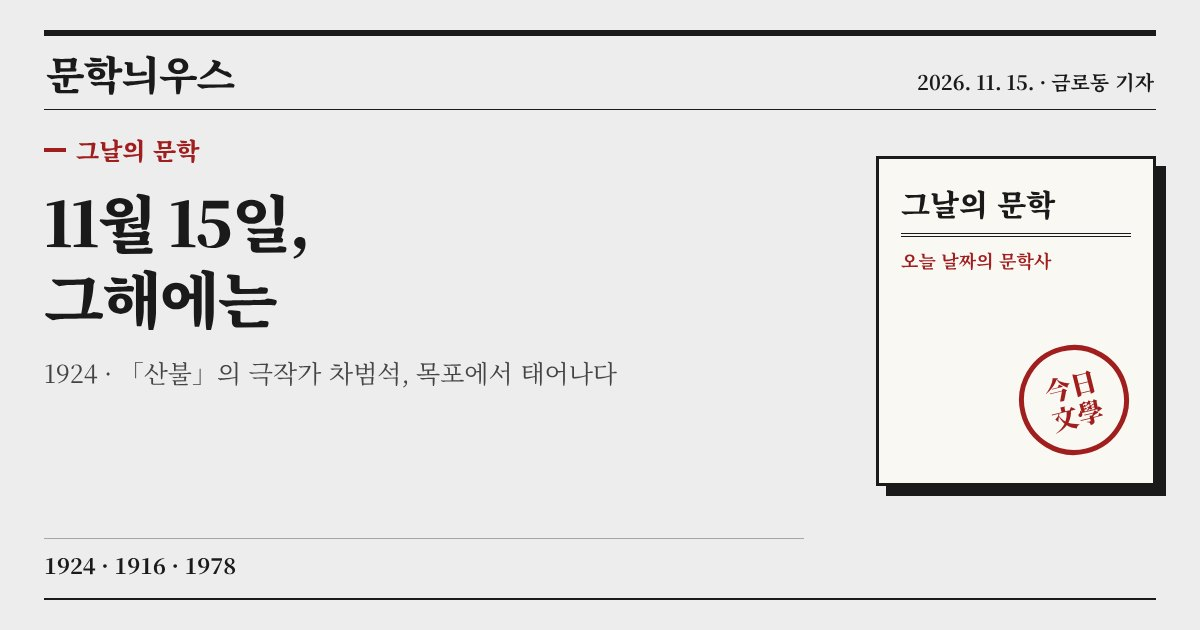
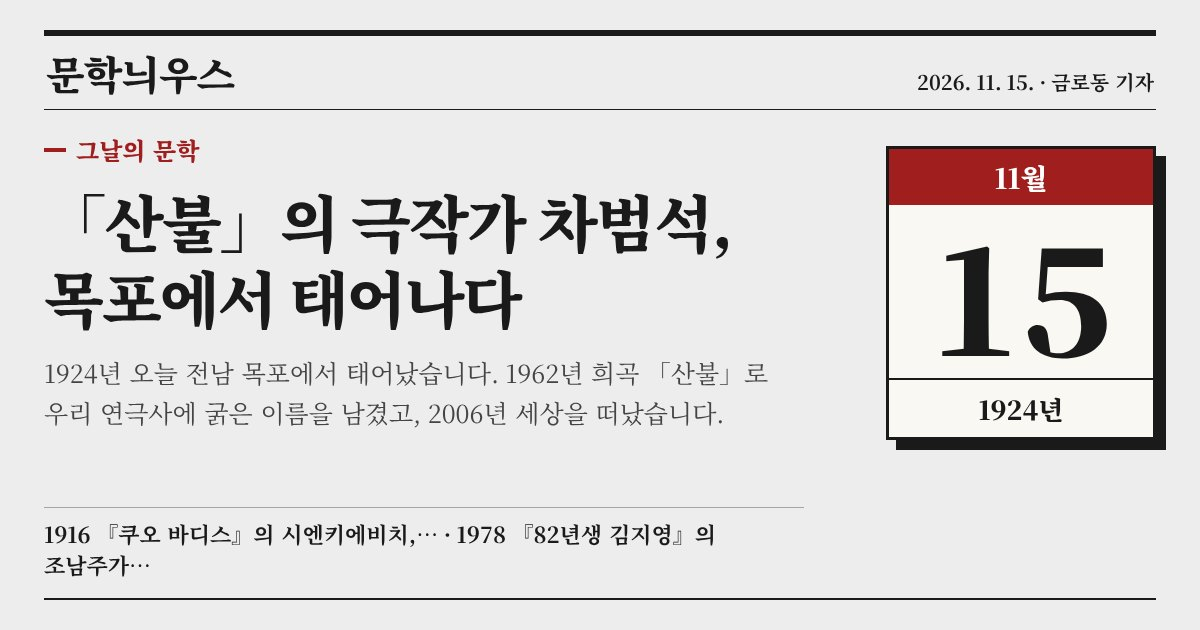
공유 카드: 코너마다 오늘 내용으로(1분 고전·현대=장면 삽화, 그날의 문학=첫 사건+달력장, 기분 처방전=오늘 들어온 약, 오늘의 한 수=기보 확대, 띠별 문장=열두 띠) + 오늘의 한 수·띠별 문장 공유 페이지 추가 — 발행인 11/15
Claude-Session: https://claude.ai/code/session_01XJFm6UEtw2WrxWGUKrJxX9

diff --git a/s/2026-11-15-modern.html b/s/2026-11-15-modern.html
@@ -1,23 +1,23 @@
 <!doctype html>
 <html lang="ko"><head><meta charset="utf-8">
 <meta name="viewport" content="width=device-width,initial-scale=1">
-<meta name="share-sig" content="12e8c91e1e">
+<meta name="share-sig" content="36ad12d770">
 <meta name="robots" content="noindex,follow">
-<title>1분 현대문학 · 이문열 「우리들의 일그러진 영웅」 · 문학늬우스</title>
-<meta name="description" content="서울에서 시골 학교로 전학 간 소년이, 반을 쥐락펴락하는 급장에 맞서다 끝내 그의 왕국에 들어가는 이야기. 어른이 된 &#x27;나&#x27; 한병태가 오래전 초등학교 시절을 돌아보며 이야기를 시작합니다. 서울의…">
+<title>1분 현대문학 · 이문열 「우리들의 일그러진 영웅」 — 서울에서 시골 학교로 전학 간 소년이, 반을 쥐락펴락하는 급장에 맞서다 끝내 그의 왕국에… · 문학늬우스</title>
+<meta name="description" content="어른이 된 &#x27;나&#x27; 한병태가 오래전 초등학교 시절을 돌아보며 이야기를 시작합니다. 서울의 이름난 학교에 다니던 병태는 5학년 때 집안 사정으로 작은 읍의 시골 학교로 전학을 갑니다. 서울에서 배운…">
 <meta property="og:type" content="article">
 <meta property="og:site_name" content="문학늬우스">
-<meta property="og:title" content="1분 현대문학 · 이문열 「우리들의 일그러진 영웅」">
-<meta property="og:description" content="서울에서 시골 학교로 전학 간 소년이, 반을 쥐락펴락하는 급장에 맞서다 끝내 그의 왕국에 들어가는 이야기. 어른이 된 &#x27;나&#x27; 한병태가 오래전 초등학교 시절을 돌아보며 이야기를 시작합니다. 서울의…">
+<meta property="og:title" content="1분 현대문학 · 이문열 「우리들의 일그러진 영웅」 — 서울에서 시골 학교로 전학 간 소년이, 반을 쥐락펴락하는 급장에 맞서다 끝내 그의 왕국에…">
+<meta property="og:description" content="어른이 된 &#x27;나&#x27; 한병태가 오래전 초등학교 시절을 돌아보며 이야기를 시작합니다. 서울의 이름난 학교에 다니던 병태는 5학년 때 집안 사정으로 작은 읍의 시골 학교로 전학을 갑니다. 서울에서 배운…">
 <meta property="og:url" content="https://mnews.jintar.co.kr/s/2026-11-15-modern.html">
 <meta property="og:image" content="https://mnews.jintar.co.kr/s/2026-11-15-modern.jpg">
 <meta property="og:image:width" content="1200"><meta property="og:image:height" content="630">
 <meta property="og:locale" content="ko_KR">
 <meta name="twitter:card" content="summary_large_image">
-<meta name="twitter:title" content="1분 현대문학 · 이문열 「우리들의 일그러진 영웅」">
-<meta name="twitter:description" content="서울에서 시골 학교로 전학 간 소년이, 반을 쥐락펴락하는 급장에 맞서다 끝내 그의 왕국에 들어가는 이야기. 어른이 된 &#x27;나&#x27; 한병태가 오래전 초등학교 시절을 돌아보며 이야기를 시작합니다. 서울의…">
+<meta name="twitter:title" content="1분 현대문학 · 이문열 「우리들의 일그러진 영웅」 — 서울에서 시골 학교로 전학 간 소년이, 반을 쥐락펴락하는 급장에 맞서다 끝내 그의 왕국에…">
+<meta name="twitter:description" content="어른이 된 &#x27;나&#x27; 한병태가 오래전 초등학교 시절을 돌아보며 이야기를 시작합니다. 서울의 이름난 학교에 다니던 병태는 5학년 때 집안 사정으로 작은 읍의 시골 학교로 전학을 갑니다. 서울에서 배운…">
 <meta name="twitter:image" content="https://mnews.jintar.co.kr/s/2026-11-15-modern.jpg">
 <link rel="icon" href="../favicon.svg" type="image/svg+xml">
 <script>location.replace("../?d=2026-11-15#modern")</script>
 <style>body{font-family:"Noto Serif KR",serif;background:#EDEDED;color:#1A1A1A;margin:0;display:grid;place-items:center;min-height:100vh;text-align:center;padding:24px}a{color:inherit}</style>
-</head><body><p><b>문학늬우스</b><br>1분 현대문학 · 이문열 「우리들의 일그러진 영웅」<br><br><a href="../?d=2026-11-15#modern">지면에서 보기 →</a></p></body></html>
+</head><body><p><b>문학늬우스</b><br>1분 현대문학 · 이문열 「우리들의 일그러진 영웅」 — 서울에서 시골 학교로 전학 간 소년이, 반을 쥐락펴락하는 급장에 맞서다 끝내 그의 왕국에…<br><br><a href="../?d=2026-11-15#modern">지면에서 보기 →</a></p></body></html>

diff --git a/s/2026-11-15-classic.html b/s/2026-11-15-classic.html
@@ -1,23 +1,23 @@
 <!doctype html>
 <html lang="ko"><head><meta charset="utf-8">
 <meta name="viewport" content="width=device-width,initial-scale=1">
-<meta name="share-sig" content="a6a9deb52d">
+<meta name="share-sig" content="52ed32dd60">
 <meta name="robots" content="noindex,follow">
-<title>1분 고전 · 오 헨리 「마지막 잎새」 · 문학늬우스</title>
-<meta name="description" content="폐렴에 걸린 젊은 화가가 담쟁이 잎이 다 지면 자기도 죽는다고 믿는다. 그 마지막 한 잎을 둘러싼 이야기. 뉴욕 워싱턴 스퀘어 서쪽, 길이 제멋대로 구부러진 동네 그리니치빌리지. 가난한 화가들이…">
+<title>1분 고전 · 오 헨리 「마지막 잎새」 — 폐렴에 걸린 젊은 화가가 담쟁이 잎이 다 지면 자기도 죽는다고 믿는다. 그 마지막 한 잎… · 문학늬우스</title>
+<meta name="description" content="뉴욕 워싱턴 스퀘어 서쪽, 길이 제멋대로 구부러진 동네 그리니치빌리지. 가난한 화가들이 모여드는 이곳의 나지막한 3층 벽돌집 꼭대기에 수와 존시가 작업실을 차렸습니다. 한 사람은 메인에서, 한 사…">
 <meta property="og:type" content="article">
 <meta property="og:site_name" content="문학늬우스">
-<meta property="og:title" content="1분 고전 · 오 헨리 「마지막 잎새」">
-<meta property="og:description" content="폐렴에 걸린 젊은 화가가 담쟁이 잎이 다 지면 자기도 죽는다고 믿는다. 그 마지막 한 잎을 둘러싼 이야기. 뉴욕 워싱턴 스퀘어 서쪽, 길이 제멋대로 구부러진 동네 그리니치빌리지. 가난한 화가들이…">
+<meta property="og:title" content="1분 고전 · 오 헨리 「마지막 잎새」 — 폐렴에 걸린 젊은 화가가 담쟁이 잎이 다 지면 자기도 죽는다고 믿는다. 그 마지막 한 잎…">
+<meta property="og:description" content="뉴욕 워싱턴 스퀘어 서쪽, 길이 제멋대로 구부러진 동네 그리니치빌리지. 가난한 화가들이 모여드는 이곳의 나지막한 3층 벽돌집 꼭대기에 수와 존시가 작업실을 차렸습니다. 한 사람은 메인에서, 한 사…">
 <meta property="og:url" content="https://mnews.jintar.co.kr/s/2026-11-15-classic.html">
 <meta property="og:image" content="https://mnews.jintar.co.kr/s/2026-11-15-classic.jpg">
 <meta property="og:image:width" content="1200"><meta property="og:image:height" content="630">
 <meta property="og:locale" content="ko_KR">
 <meta name="twitter:card" content="summary_large_image">
-<meta name="twitter:title" content="1분 고전 · 오 헨리 「마지막 잎새」">
-<meta name="twitter:description" content="폐렴에 걸린 젊은 화가가 담쟁이 잎이 다 지면 자기도 죽는다고 믿는다. 그 마지막 한 잎을 둘러싼 이야기. 뉴욕 워싱턴 스퀘어 서쪽, 길이 제멋대로 구부러진 동네 그리니치빌리지. 가난한 화가들이…">
+<meta name="twitter:title" content="1분 고전 · 오 헨리 「마지막 잎새」 — 폐렴에 걸린 젊은 화가가 담쟁이 잎이 다 지면 자기도 죽는다고 믿는다. 그 마지막 한 잎…">
+<meta name="twitter:description" content="뉴욕 워싱턴 스퀘어 서쪽, 길이 제멋대로 구부러진 동네 그리니치빌리지. 가난한 화가들이 모여드는 이곳의 나지막한 3층 벽돌집 꼭대기에 수와 존시가 작업실을 차렸습니다. 한 사람은 메인에서, 한 사…">
 <meta name="twitter:image" content="https://mnews.jintar.co.kr/s/2026-11-15-classic.jpg">
 <link rel="icon" href="../favicon.svg" type="image/svg+xml">
 <script>location.replace("../?d=2026-11-15#classic")</script>
 <style>body{font-family:"Noto Serif KR",serif;background:#EDEDED;color:#1A1A1A;margin:0;display:grid;place-items:center;min-height:100vh;text-align:center;padding:24px}a{color:inherit}</style>
-</head><body><p><b>문학늬우스</b><br>1분 고전 · 오 헨리 「마지막 잎새」<br><br><a href="../?d=2026-11-15#classic">지면에서 보기 →</a></p></body></html>
+</head><body><p><b>문학늬우스</b><br>1분 고전 · 오 헨리 「마지막 잎새」 — 폐렴에 걸린 젊은 화가가 담쟁이 잎이 다 지면 자기도 죽는다고 믿는다. 그 마지막 한 잎…<br><br><a href="../?d=2026-11-15#classic">지면에서 보기 →</a></p></body></html>

diff --git a/s/2026-11-15-rx.html b/s/2026-11-15-rx.html
@@ -1,23 +1,23 @@
 <!doctype html>
 <html lang="ko"><head><meta charset="utf-8">
 <meta name="viewport" content="width=device-width,initial-scale=1">
-<meta name="share-sig" content="a2ce733bd1">
+<meta name="share-sig" content="d5b6955ad6">
 <meta name="robots" content="noindex,follow">
-<title>기분 처방전 · 오늘 기분에 맞는 문장 한 알 · 문학늬우스</title>
-<meta name="description" content="지쳤어요·울적해요·불안해요·화나요·설레요·멍해요 — 기분을 고르면 금로동 약사가 문장 한 알을 지어 드립니다.">
+<title>기분 처방전 · 오늘 들어온 약 “엄마야 누나야 강변 살자 / 뜰에는 반짝이는 금모래빛” — 김소월 「엄마야 누나야」 · 문학늬우스</title>
+<meta name="description" content="모니터 불빛 대신 금모래빛을 떠올리며, 눈 감고 두 줄을 천천히 소리 내어 한 번. 강변 이사는 처방에 포함되지 않습니다. · 오늘 들어온 약 6알: 윤동주 「서시」, 김상용 「남으로 창을 내겠소…">
 <meta property="og:type" content="article">
 <meta property="og:site_name" content="문학늬우스">
-<meta property="og:title" content="기분 처방전 · 오늘 기분에 맞는 문장 한 알">
-<meta property="og:description" content="지쳤어요·울적해요·불안해요·화나요·설레요·멍해요 — 기분을 고르면 금로동 약사가 문장 한 알을 지어 드립니다.">
+<meta property="og:title" content="기분 처방전 · 오늘 들어온 약 “엄마야 누나야 강변 살자 / 뜰에는 반짝이는 금모래빛” — 김소월 「엄마야 누나야」">
+<meta property="og:description" content="모니터 불빛 대신 금모래빛을 떠올리며, 눈 감고 두 줄을 천천히 소리 내어 한 번. 강변 이사는 처방에 포함되지 않습니다. · 오늘 들어온 약 6알: 윤동주 「서시」, 김상용 「남으로 창을 내겠소…">
 <meta property="og:url" content="https://mnews.jintar.co.kr/s/2026-11-15-rx.html">
 <meta property="og:image" content="https://mnews.jintar.co.kr/s/2026-11-15-rx.jpg">
 <meta property="og:image:width" content="1200"><meta property="og:image:height" content="630">
 <meta property="og:locale" content="ko_KR">
 <meta name="twitter:card" content="summary_large_image">
-<meta name="twitter:title" content="기분 처방전 · 오늘 기분에 맞는 문장 한 알">
-<meta name="twitter:description" content="지쳤어요·울적해요·불안해요·화나요·설레요·멍해요 — 기분을 고르면 금로동 약사가 문장 한 알을 지어 드립니다.">
+<meta name="twitter:title" content="기분 처방전 · 오늘 들어온 약 “엄마야 누나야 강변 살자 / 뜰에는 반짝이는 금모래빛” — 김소월 「엄마야 누나야」">
+<meta name="twitter:description" content="모니터 불빛 대신 금모래빛을 떠올리며, 눈 감고 두 줄을 천천히 소리 내어 한 번. 강변 이사는 처방에 포함되지 않습니다. · 오늘 들어온 약 6알: 윤동주 「서시」, 김상용 「남으로 창을 내겠소…">
 <meta name="twitter:image" content="https://mnews.jintar.co.kr/s/2026-11-15-rx.jpg">
 <link rel="icon" href="../favicon.svg" type="image/svg+xml">
 <script>location.replace("../?d=2026-11-15#rx")</script>
 <style>body{font-family:"Noto Serif KR",serif;background:#EDEDED;color:#1A1A1A;margin:0;display:grid;place-items:center;min-height:100vh;text-align:center;padding:24px}a{color:inherit}</style>
-</head><body><p><b>문학늬우스</b><br>기분 처방전 · 오늘 기분에 맞는 문장 한 알<br><br><a href="../?d=2026-11-15#rx">지면에서 보기 →</a></p></body></html>
+</head><body><p><b>문학늬우스</b><br>기분 처방전 · 오늘 들어온 약 “엄마야 누나야 강변 살자 / 뜰에는 반짝이는 금모래빛” — 김소월 「엄마야 누나야」<br><br><a href="../?d=2026-11-15#rx">지면에서 보기 →</a></p></body></html>

diff --git a/s/2026-11-15-go.html b/s/2026-11-15-go.html
@@ -1,0 +1,23 @@
+<!doctype html>
+<html lang="ko"><head><meta charset="utf-8">
+<meta name="viewport" content="width=device-width,initial-scale=1">
+<meta name="share-sig" content="c80b83a2fe">
+<meta name="robots" content="noindex,follow">
+<title>오늘의 한 수 · 「신의 한 수」 백78 — 이세돌 9단, 구글 딥마인드 챌린지 매치 제4국 · 문학늬우스</title>
+<meta name="description" content="세 판을 내리 진 뒤의 넷째 판. 이세돌 9단(백)이 중앙의 흑돌 사이로 돌 하나를 끼워 넣었다. 흑이 두텁게 감싼 중앙에서 백은 살 길이 좁아 보였다. 백78은 흑돌과 흑돌 사이, 비좁은 틈을…">
+<meta property="og:type" content="article">
+<meta property="og:site_name" content="문학늬우스">
+<meta property="og:title" content="오늘의 한 수 · 「신의 한 수」 백78 — 이세돌 9단, 구글 딥마인드 챌린지 매치 제4국">
+<meta property="og:description" content="세 판을 내리 진 뒤의 넷째 판. 이세돌 9단(백)이 중앙의 흑돌 사이로 돌 하나를 끼워 넣었다. 흑이 두텁게 감싼 중앙에서 백은 살 길이 좁아 보였다. 백78은 흑돌과 흑돌 사이, 비좁은 틈을…">
+<meta property="og:url" content="https://mnews.jintar.co.kr/s/2026-11-15-go.html">
+<meta property="og:image" content="https://mnews.jintar.co.kr/s/2026-11-15-go.jpg">
+<meta property="og:image:width" content="1200"><meta property="og:image:height" content="630">
+<meta property="og:locale" content="ko_KR">
+<meta name="twitter:card" content="summary_large_image">
+<meta name="twitter:title" content="오늘의 한 수 · 「신의 한 수」 백78 — 이세돌 9단, 구글 딥마인드 챌린지 매치 제4국">
+<meta name="twitter:description" content="세 판을 내리 진 뒤의 넷째 판. 이세돌 9단(백)이 중앙의 흑돌 사이로 돌 하나를 끼워 넣었다. 흑이 두텁게 감싼 중앙에서 백은 살 길이 좁아 보였다. 백78은 흑돌과 흑돌 사이, 비좁은 틈을…">
+<meta name="twitter:image" content="https://mnews.jintar.co.kr/s/2026-11-15-go.jpg">
+<link rel="icon" href="../favicon.svg" type="image/svg+xml">
+<script>location.replace("../?d=2026-11-15#go")</script>
+<style>body{font-family:"Noto Serif KR",serif;background:#EDEDED;color:#1A1A1A;margin:0;display:grid;place-items:center;min-height:100vh;text-align:center;padding:24px}a{color:inherit}</style>
+</head><body><p><b>문학늬우스</b><br>오늘의 한 수 · 「신의 한 수」 백78 — 이세돌 9단, 구글 딥마인드 챌린지 매치 제4국<br><br><a href="../?d=2026-11-15#go">지면에서 보기 →</a></p></body></html>

diff --git a/s/2026-11-15-zodiac.html b/s/2026-11-15-zodiac.html
@@ -1,0 +1,23 @@
+<!doctype html>
+<html lang="ko"><head><meta charset="utf-8">
+<meta name="viewport" content="width=device-width,initial-scale=1">
+<meta name="share-sig" content="e3b471ba6c">
+<meta name="robots" content="noindex,follow">
+<title>띠별 오늘의 문장 · 쥐띠 「새로운 길」 외 11편 — 운세 대신 문장 한 줄 · 문학늬우스</title>
+<meta name="description" content="쥐띠 “어제도 가고 오늘도 갈 나의 길 새로운…” / 소띠 “사람은 파멸할 수는 있어도 패배하지는…” / 범띠 “지금 눈 나리고 매화 향기 홀로 아득하…” / 토끼띠 “얼굴 하나야 손바닥 둘로 폭 ">
+<meta property="og:type" content="article">
+<meta property="og:site_name" content="문학늬우스">
+<meta property="og:title" content="띠별 오늘의 문장 · 쥐띠 「새로운 길」 외 11편 — 운세 대신 문장 한 줄">
+<meta property="og:description" content="쥐띠 “어제도 가고 오늘도 갈 나의 길 새로운…” / 소띠 “사람은 파멸할 수는 있어도 패배하지는…” / 범띠 “지금 눈 나리고 매화 향기 홀로 아득하…” / 토끼띠 “얼굴 하나야 손바닥 둘로 폭 ">
+<meta property="og:url" content="https://mnews.jintar.co.kr/s/2026-11-15-zodiac.html">
+<meta property="og:image" content="https://mnews.jintar.co.kr/s/2026-11-15-zodiac.jpg">
+<meta property="og:image:width" content="1200"><meta property="og:image:height" content="630">
+<meta property="og:locale" content="ko_KR">
+<meta name="twitter:card" content="summary_large_image">
+<meta name="twitter:title" content="띠별 오늘의 문장 · 쥐띠 「새로운 길」 외 11편 — 운세 대신 문장 한 줄">
+<meta name="twitter:description" content="쥐띠 “어제도 가고 오늘도 갈 나의 길 새로운…” / 소띠 “사람은 파멸할 수는 있어도 패배하지는…” / 범띠 “지금 눈 나리고 매화 향기 홀로 아득하…” / 토끼띠 “얼굴 하나야 손바닥 둘로 폭 ">
+<meta name="twitter:image" content="https://mnews.jintar.co.kr/s/2026-11-15-zodiac.jpg">
+<link rel="icon" href="../favicon.svg" type="image/svg+xml">
+<script>location.replace("../?d=2026-11-15#zodiac")</script>
+<style>body{font-family:"Noto Serif KR",serif;background:#EDEDED;color:#1A1A1A;margin:0;display:grid;place-items:center;min-height:100vh;text-align:center;padding:24px}a{color:inherit}</style>
+</head><body><p><b>문학늬우스</b><br>띠별 오늘의 문장 · 쥐띠 「새로운 길」 외 11편 — 운세 대신 문장 한 줄<br><br><a href="../?d=2026-11-15#zodiac">지면에서 보기 →</a></p></body></html>

diff --git a/s/2026-11-15-day.html b/s/2026-11-15-day.html
@@ -1,7 +1,7 @@
 <!doctype html>
 <html lang="ko"><head><meta charset="utf-8">
 <meta name="viewport" content="width=device-width,initial-scale=1">
-<meta name="share-sig" content="d8f3d30f48">
+<meta name="share-sig" content="6b193eea47">
 <meta name="robots" content="noindex,follow">
 <title>그날의 문학 · 11월 15일 — 「산불」의 극작가 차범석, 목포에서 태어나다 · 문학늬우스</title>
 <meta name="description" content="1924 「산불」의 극작가 차범석, 목포에서 태어나다 / 1916 『쿠오 바디스』의 시엔키에비치, 스위스에서 눈을 감다 / 1978 『82년생 김지영』의 조남주가 태어나다">

diff --git a/scripts/make_share.py b/scripts/make_share.py
@@ -9,8 +9,8 @@ import hashlib, html, json, os, re, sys, glob
 
 SITE = "https://mnews.jintar.co.kr/"
 OUT = "s"
-SECS = ["sentence", "poem", "novel", "writer", "puzzle", "trivia", "classic", "rx", "day", "modern"]
-NAME = {"sentence": "오늘의 문장", "poem": "오늘의 시", "novel": "오늘의 소설 구절", "writer": "오늘의 문인", "puzzle": "낱말 퍼즐", "trivia": "문학 상식 OX", "classic": "1분 고전", "rx": "기분 처방전", "day": "그날의 문학", "modern": "1분 현대문학"}
+SECS = ["sentence", "poem", "novel", "writer", "puzzle", "trivia", "classic", "rx", "day", "modern", "go", "zodiac"]
+NAME = {"sentence": "오늘의 문장", "poem": "오늘의 시", "novel": "오늘의 소설 구절", "writer": "오늘의 문인", "puzzle": "낱말 퍼즐", "trivia": "문학 상식 OX", "classic": "1분 고전", "rx": "기분 처방전", "day": "그날의 문학", "modern": "1분 현대문학", "go": "오늘의 한 수", "zodiac": "띠별 오늘의 문장"}
 
 
 def esc(x):
@@ -57,17 +57,78 @@ def content(D, sec):
                 "O일까, X일까?", esc(clip(T[0]["q"], 70)) if T else "", None, f"{len(T)}문항 · 정답과 해설은 지면에서")
     if sec in ("classic", "modern"):
         C = D[sec]
-        return (f"{NAME[sec]} · {C['writer']} 「{C['title']}」", clip(C.get("oneline", "") + " " + " ".join(C.get("story") or C.get("lines", [])), 110),
-                f"「{esc(C['title'])}」", esc(clip(C.get("oneline"), 80)), None, f"{esc(C['writer'])} · {C['year']} · 1분이면 읽는 줄거리")
+        sc = (C.get("scenes") or [])
+        img = (sc[0].get("img") if sc and sc[0].get("img") else None) or C.get("img")
+        return (f"{NAME[sec]} · {C['writer']} 「{C['title']}」 — {clip(C.get('oneline', ''), 50)}", clip(" ".join(C.get("story") or C.get("lines", [])), 110),
+                f"「{esc(C['title'])}」", esc(clip(C.get("oneline"), 80)), img, f"{esc(C['writer'])} · {C['year']} · 1분이면 읽는 줄거리")
+    if sec == "go":
+        G = D["go"]
+        return (f"오늘의 한 수 · {G['title']} — {G['white'] if G['key'] % 2 == 0 else G['black']}, {G['game']}", clip(G.get("lead", "") + " " + " ".join(G.get("body") or []), 110),
+                esc(G["title"]), esc(clip(G.get("lead"), 90)), None, f"{esc(G['game'])} · {G['date'].replace('-', '.')} · 흑 {esc(G['black'])} · 백 {esc(G['white'])}")
+    if sec == "zodiac":
+        Z = D["zodiac"]
+        return (f"띠별 오늘의 문장 · {Z[0]['animal']}띠 「{Z[0]['work']}」 외 {len(Z) - 1}편 — 운세 대신 문장 한 줄", " / ".join(f"{z['animal']}띠 “{clip(z['text'].replace(' / ', ' '), 22)}”" for z in Z[:5])[:110],
+                "띠별<br>오늘의 문장", esc(" · ".join(f"{z['animal']}띠 「{z['work']}」" for z in Z[:4])) + " …", None, "운세 대신 문장 한 줄 · 열두 띠")
     if sec == "day":
         Y = D.get("onthisday") or []
         m, dd = D["date"][5:].split("-")
         return (f"그날의 문학 · {int(m)}월 {int(dd)}일 — {clip(Y[0]['title'], 40)}" if Y else "그날의 문학", " / ".join(y["year"] + " " + y["title"] for y in Y)[:110],
-                f"{int(m)}월 {int(dd)}일,<br>그해에는", esc(clip(Y[0]["year"] + " · " + Y[0]["title"], 80)) if Y else "", None, " · ".join(y["year"] for y in Y))
+                esc(clip(Y[0]["title"], 40)) if Y else f"{int(m)}월 {int(dd)}일", esc(clip(Y[0].get("body") or "", 90)) if Y else "", None, " · ".join(f"{y['year']} {clip(y['title'], 18)}" for y in Y[1:3]) or "오늘 날짜의 문학사")
     if sec == "rx":
+        try:
+            N = [i for i in json.load(open("data/rx.json", encoding="utf-8"))["items"] if i.get("added") == D["date"]]
+        except Exception:
+            N = []
+        if N:
+            x = N[0]
+            return (f"기분 처방전 · 오늘 들어온 약 “{clip(x['text'], 40)}” — {x['writer']} 「{x['work']}」", clip(x.get("dose", "") + " · 오늘 들어온 약 " + str(len(N)) + "알: " + ", ".join(f"{i['writer']} 「{i['work']}」" for i in N[1:]), 110),
+                    "“" + esc(clip(x["text"].replace(" / ", " "), 50)) + "”", esc(clip(x.get("dose"), 80)), None, f"{esc(x['writer'])} 「{esc(x['work'])}」 · 오늘 들어온 약 {len(N)}알")
         return ("기분 처방전 · 오늘 기분에 맞는 문장 한 알", "지쳤어요·울적해요·불안해요·화나요·설레요·멍해요 — 기분을 고르면 금로동 약사가 문장 한 알을 지어 드립니다.",
                 "오늘 기분에<br>문장 한 알", "기분을 고르면 출처가 분명한 문장을 처방해 드려요.", None, "문학 약국 · 금로동 약사")
     raise KeyError(sec)
+
+
+def go_svg(G, px):
+    """오늘의 한 수 기보(지면 goBoard 와 같은 규칙: 처음부터 to 수까지 두며 따낸 돌 제거, from~to 번호, key 동그라미)"""
+    N = 19; b = {}; num = {}; mv = G["moves"].split()
+    def nb(x, y): return [(a, c) for a, c in ((x + 1, y), (x - 1, y), (x, y + 1), (x, y - 1)) if 0 <= a < N and 0 <= c < N]
+    def grp(x, y):
+        c = b[(x, y)]; seen = {(x, y)}; st = [(x, y)]; libs = 0; g = []
+        while st:
+            p = st.pop(); g.append(p)
+            for q in nb(*p):
+                if q in seen: continue
+                if q not in b: seen.add(q); libs += 1
+                elif b[q] == c: seen.add(q); st.append(q)
+        return g, libs
+    for i, m in enumerate(mv[:G["to"]]):
+        if len(m) < 2: continue
+        x, y = ord(m[0]) - 97, ord(m[1]) - 97; c = (G.get("colors") or [None] * 999)[i] or ("W" if i % 2 else "B")
+        b[(x, y)] = c
+        if i + 1 >= G["from"]: num[(x, y)] = i + 1
+        for q in nb(x, y):
+            if q in b and b[q] != c:
+                g, l = grp(*q)
+                if not l:
+                    for p in g: b.pop(p, None); num.pop(p, None)
+    S, O = 30, 20; W = O * 2 + S * (N - 1)
+    # 카드는 작으니 핵심 수 주변 11줄만 크게(번호가 읽히게)
+    km = mv[G["key"] - 1]; kx, ky = ord(km[0]) - 97, ord(km[1]) - 97
+    x0 = min(max(kx - 5, 0), N - 11); y0 = min(max(ky - 5, 0), N - 11)
+    vb = f"{O + (x0 - .6) * S} {O + (y0 - .6) * S} {11.2 * S - S} {11.2 * S - S}"
+    o = [f'<svg viewBox="{vb}" width="{px}" height="{px}" xmlns="http://www.w3.org/2000/svg" style="background:#f4f3ee;border:3px solid #1A1A1A;display:block">']
+    for i in range(N):
+        sw = 1.6 if i in (0, N - 1) else .8
+        o.append(f'<line x1="{O}" y1="{O + i * S}" x2="{O + (N - 1) * S}" y2="{O + i * S}" stroke="#1a1a1a" stroke-width="{sw}"/><line x1="{O + i * S}" y1="{O}" x2="{O + i * S}" y2="{O + (N - 1) * S}" stroke="#1a1a1a" stroke-width="{sw}"/>')
+    for a in (3, 9, 15):
+        for c in (3, 9, 15): o.append(f'<circle cx="{O + a * S}" cy="{O + c * S}" r="3.4" fill="#1a1a1a"/>')
+    for (x, y), c in b.items():
+        cx, cy = O + x * S, O + y * S; blk = c == "B"; n = num.get((x, y))
+        o.append(f'<circle cx="{cx}" cy="{cy}" r="13.6" fill="{"#1a1a1a" if blk else "#fbfaf6"}" stroke="#1a1a1a" stroke-width="1.3"/>')
+        if n: o.append(f'<text x="{cx}" y="{cy + 4.6}" font-size="{11 if n > 99 else 13}" font-weight="{900 if n == G["key"] else 700}" text-anchor="middle" fill="{"#fbfaf6" if blk else "#1a1a1a"}">{n}</text>')
+        if n == G["key"]: o.append(f'<circle cx="{cx}" cy="{cy}" r="18.5" fill="none" stroke="#A01E1E" stroke-width="3"/>')
+    o.append("</svg>")
+    return "".join(o)
 
 
 CARD = """<!doctype html><html><head><meta charset="utf-8">
@@ -203,7 +264,18 @@ def main(dates):
             elif sec == "trivia":
                 right = '<div class="r" style="width:330px;display:flex;gap:22px;top:150px"><b style="width:150px;height:150px;border:5px solid #1A1A1A;display:grid;place-items:center;font-size:110px;font-weight:900;line-height:1">O</b><b style="width:150px;height:150px;border:5px solid #1A1A1A;display:grid;place-items:center;font-size:110px;font-weight:900;line-height:1;background:#1A1A1A;color:#EDEDED">X</b></div>'
                 lw = 740
-            elif sec in ("rx", "classic", "day", "modern"):
+            elif sec == "go":
+                right = '<div class="r" style="width:450px;top:96px">' + go_svg(D["go"], 418) + '<div class="cap">기보 일부 · 붉은 동그라미가 오늘의 한 수</div></div>'
+                lw = 600
+            elif sec == "zodiac":
+                ic = "".join(f'<div style="text-align:center"><img src="file://{os.path.abspath("img/zodiac/" + z["key"] + ".png")}" style="width:72px;height:72px;border:2.5px solid #1A1A1A;border-radius:50%;padding:9px;background:#f4f3ee;display:block;margin:0 auto"><div style="font-size:17px;font-weight:900;margin-top:4px">{esc(z["animal"])}</div></div>' for z in D["zodiac"])
+                right = f'<div class="r" style="width:470px;top:104px;display:grid;grid-template-columns:repeat(4,1fr);gap:12px 8px">{ic}</div>'
+                lw = 600
+            elif sec == "day":
+                Y = D.get("onthisday") or []; m_, d_ = d[5:].split("-")
+                right = f'<div class="r" style="width:300px;top:110px"><div style="width:270px;margin-left:auto;background:#f9f8f3;border:3px solid #1A1A1A;box-shadow:10px 10px 0 #1A1A1A;text-align:center"><div style="background:#A01E1E;color:#fff;font-size:28px;font-weight:900;padding:8px">{int(m_)}월</div><div style="font-size:150px;font-weight:900;line-height:1.15">{int(d_)}</div><div style="font-size:26px;font-weight:900;border-top:2px solid #1A1A1A;padding:10px">{esc(Y[0]["year"]) if Y else ""}년</div></div></div>'
+                lw = 760
+            elif sec in ("rx",):
                 lbl = {"rx": "文學<br>藥局", "classic": "1分<br>古典", "day": "今日<br>文學", "modern": "1分<br>現代"}[sec]
                 right = f'<div class="r" style="width:300px;top:120px"><div style="width:280px;height:330px;margin-left:auto;background:#f9f8f3;border:3px solid #1A1A1A;box-shadow:10px 10px 0 #1A1A1A;position:relative;padding:22px"><div style="font-size:30px;font-weight:900;border-bottom:4px double #1A1A1A;padding-bottom:8px">{ {"rx":"문학 약국","classic":"1분 고전","day":"그날의 문학","modern":"1분 현대문학"}[sec] }</div><div style="font-size:18px;color:#A01E1E;font-weight:700;margin-top:10px">{ {"rx":"처방전 · 內服藥","classic":"1분이면 읽는 줄거리","day":"오늘 날짜의 문학사","modern":"요즘 소설 1분 요약"}[sec] }</div><div style="position:absolute;right:24px;bottom:28px;width:110px;height:110px;border:5px solid #A01E1E;border-radius:50%;color:#A01E1E;font-size:26px;font-weight:900;line-height:1.15;display:grid;place-items:center;text-align:center;transform:rotate(-14deg)">{lbl}</div></div></div>'
                 lw = 760
